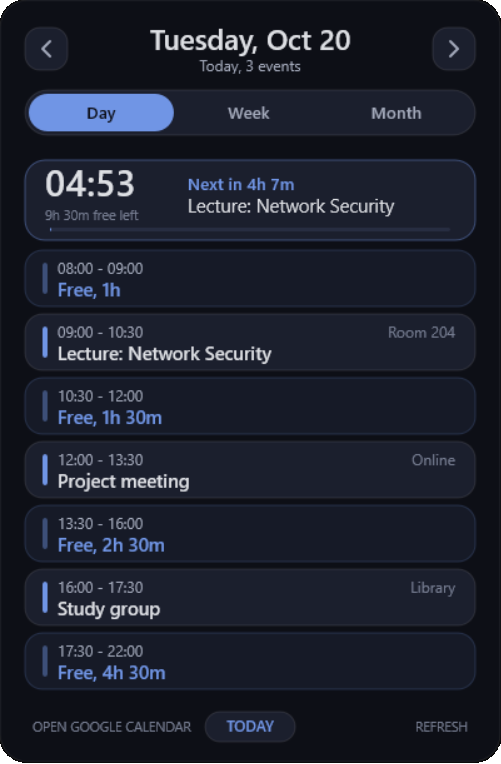
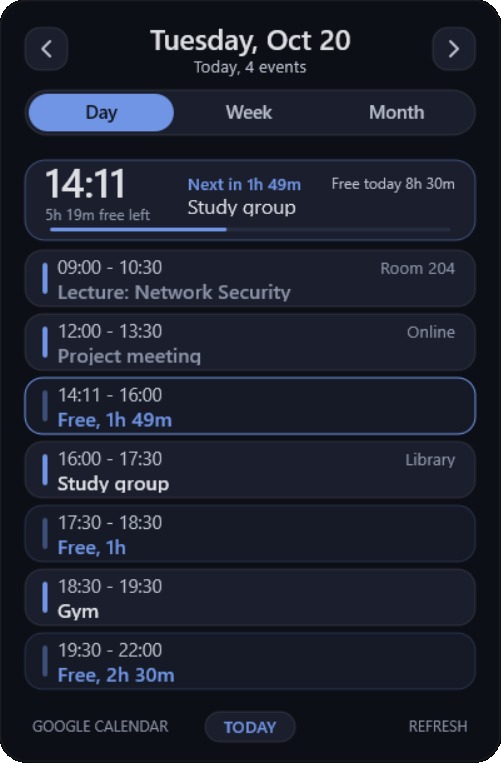
docs: redesign README (hero, badges, usage and config tables), refresh screenshots

diff --git a/README.md b/README.md
@@ -1,225 +1,126 @@
-# CyberCalendar - Rainmeter Skin
+<div align="center">
 
-> Fork of [Gourav2000/CyberCalender](https://github.com/Gourav2000/CyberCalender). See [CHANGELOG.md](CHANGELOG.md) for everything changed in this fork.
+# CyberCalendar
 
-A sleek, dark-themed calendar skin for Rainmeter that integrates with Google Calendar to display your events directly on your desktop.
+**A dark, rounded Google Calendar skin for [Rainmeter](https://www.rainmeter.net/) with Day, Week and Month views, a live "now" card and a free-time timeline.**
 
-## Screenshots
+![Rainmeter](https://img.shields.io/badge/Rainmeter-4.5%2B-1f6feb?style=flat-square)
+![Platform](https://img.shields.io/badge/Windows-10%20%7C%2011-0078d4?style=flat-square&logo=windows&logoColor=white)
+![Lua](https://img.shields.io/badge/Lua-5.1-2c2d72?style=flat-square&logo=lua&logoColor=white)
+![Google Calendar](https://img.shields.io/badge/Google%20Calendar-ICS-4285f4?style=flat-square&logo=googlecalendar&logoColor=white)
+![Fork](https://img.shields.io/badge/fork%20of-Gourav2000%2FCyberCalender-6e7681?style=flat-square&logo=github)
 
-**Before** (original skin by Gourav2000):
+<br>
 
-<img src="Screenshot.png" alt="Original CyberCalendar" width="320">
+<img src="docs/day.png" alt="Day view" width="290">&nbsp;
+<img src="docs/week.png" alt="Week view" width="290">&nbsp;
+<img src="docs/month.png" alt="Month view" width="290">
 
-**After** (this fork; demo data): Day, Week and Month tabs.
+<sub>Day · Week · Month (screenshots use demo data)</sub>
 
-<p>
-  <img src="docs/day.png" alt="Day view" width="300">
-  <img src="docs/week.png" alt="Week view" width="300">
-  <img src="docs/month.png" alt="Month view" width="300">
-</p>
-
-## What's new in 6.0
-
-- Tabs **Month / Week / Day**; arrows move by month / 7 days / 1 day.
-- **Week**: 7 day cards with up to 3 events each; click a card to open that day.
-- **Day**: "now" card (clock, time to next event or time left in current one, day progress, free time left) and a timeline of events with **Free** windows between them.
-- Dark blue palette and rounded cards; all colours live in `[Variables]` of `Calendar.ini`.
-- Times are converted from UTC to your time zone (Windows time zone, or `UtcOffsetHours` if set); previously hard-coded IST.
-- Double-click a day in Month to open it in Day.
-
-Settings in `[Variables]`: `WeekStart` (0 = Sunday, 1 = Monday), `DayStart` / `DayEnd` (hours of the window used for free time), `MinGap` (minimum free window, minutes).
-`Calendar.ini` is long because every meter is spelled out; the old version is kept as `Calendar.ini.bak` / `Calendar.lua.bak`.
-
-## Features (v5 description, still mostly valid)
-
-### 📅 Calendar Grid
-- Full month view with 6 weeks × 7 days layout
-- Blue dates for current month, grey dates for previous/next month
-- Cyan circle highlighting today's date
-- White circle highlighting selected date (with black text)
-- Previous/Next month navigation buttons
-- TODAY button to quickly return to current date
-
-### 🖱 Interactive Date Selection
-- All 42 calendar cells are clickable
-- Grey dates automatically flip the calendar to show the previous/next month
-- Selected date is tracked and displayed throughout the interface
-- Visual feedback with white circles and black text
-
-### 📆 Google Calendar Integration
-- Fetches events from Google Calendar via ICS feed
-- UTC and `TZID` times are converted to your time zone
-- Supports both all-day events and timed events
-- Real-time event filtering based on selected date
-
-### 📋 Event Display
-- **TODAY EVENTS** section displays events for the selected date
-- Header dynamically changes to show selected date (e.g., "2025-10-21 EVENTS")
-- Each event shows the event name and time
-- **UPCOMING EVENTS** section displays future events relative to selection
-- Clean, organized layout with proper spacing
-
-### 🎨 Visual Design
-- Cyber/dark theme with cyan and white accents
-- Color-coded dates (cyan for current month, grey for other months)
-- Dark text on cyan/white circles for optimal readability
-- Smooth animations and hover effects
-- Professional typography and spacing
-
-## Installation
-
-### Prerequisites
-- Rainmeter (latest version)
-- Google Calendar with a valid ICS feed URL
-
-### Setup Steps
-
-1. **Extract Files**
-   - Extract the CyberCalendar folder to your Rainmeter Skins directory:
-     ```
-     C:\Users\[YourUsername]\Documents\Rainmeter\Skins\
-     ```
-
-2. **Configure Google Calendar ICS URLs**
-   - Copy `@Resources\Variables.inc.example` to `@Resources\Variables.inc` (it is gitignored, so your private links are never committed)
-   - Set `GoogleCalendarICS1` (and optionally `GoogleCalendarICS2`) to your feed URLs
-   - To get an ICS URL: Google Calendar > Settings > pick a calendar > Integrate calendar > "Secret address in iCal format"
-
-3. **Load the Skin**
-   - Open Rainmeter
-   - Find "CyberCalendar" in the skins list
-   - Click "Load" to display the calendar
-
-## Usage
-
-### Navigation
-- **Left Arrow (<)**: Go to previous month
-- **Right Arrow (>)**: Go to next month
-- **TODAY Button**: Return to current date and show today's events
-
-### Date Selection
-- **Click any date**: Select that date to view its events
-- **Click grey dates**: Automatically navigates to that month
-- **Selected date**: Shown with a white circle and black text
-
-### Event Display
-- Events for the selected date appear in the "TODAY EVENTS" section
-- The header changes to show the selected date (e.g., "2025-10-21 EVENTS")
-- Each event shows the time and event name
-- All-day events display as "All day"
-
-## File Structure
-
-```
-CyberCalender/
-├── Calendar.ini          # Main skin configuration (meters and styles)
-├── CHANGELOG.md          # What changed compared to upstream
-├── @Resources/
-│   ├── Calendar.lua      # Views, event parsing, free-time logic
-│   ├── Variables.inc     # Your private ICS URLs (gitignored, create from the .example)
-│   └── Parser.lua        # Reference ICS parser (not used)
-└── README.md             # This file
-```
-
-## Technical Details
-
-### Calendar Logic (Lua)
-- **GetDay(index)**: Returns the day number for a calendar cell (0-41)
-- **IsInCurrentMonth(index)**: Checks if a date is in the current month
-- **IsToday(index)**: Checks if a date is today
-- **SetSelectedDate(index)**: Sets the selected date and handles month navigation
-
-### Event Parsing (Lua)
-- **parseIcs()**: Parses RFC 5545 ICS format
-- **filterEvents()**: Filters events by date
-- **parseDt() / toDisplay()**: Convert UTC and `TZID` times to the display time zone
-- **GetParsedResultJson(selectedDate)**: Returns events for a specific date
-
-### Timezone Handling
-- Event times in UTC (`...Z`) and with a known `TZID` (Moscow, Yekaterinburg, Kolkata, etc., see `ZONES` in `Calendar.lua`) are converted to the display time zone
-- Display time zone = Windows time zone, unless `UtcOffsetHours` (for example `5` for Tyumen) is set in `@Resources\Variables.inc`
-- The "now" clock in the Day view uses the same time zone, so it always matches the events
-
-## Customization
-
-### Colors
-Edit the `[Variables]` section in `Calendar.ini`:
-```ini
-ColorWhite=255,255,255,255
-ColorCyan=0,200,255,255
-ColorEvent=100,200,255,200
-```
-
-### Fonts
-```ini
-FontFace=Segoe UI Light
-FontFaceTitle=Segoe UI
-FontFaceDays=Segoe UI
-```
-
-### Calendar Position and Size
-Edit `[MeterBG]` to change the size and position of the calendar window.
-
-## Troubleshooting
-
-### Events not showing?
-1. Verify your Google Calendar ICS URL is correct
-2. Check that your calendar is shared publicly
-3. Make sure the calendar has events for the selected date
-4. Reload the skin: Right-click → Reload
-
-### Dates showing incorrect times?
-1. Compare the Windows time zone with the one in Google Calendar (a wrong Windows time zone shifts every event)
-2. Either fix the Windows time zone, or set `UtcOffsetHours` (for example `5`) in `@Resources\Variables.inc`
-3. Reload the skin
-
-### Calendar not updating?
-1. Increase the UpdateRate in `[MeasureEventParser]` (currently 300 seconds)
-2. Manually refresh: Right-click → Refresh all
-
-## Performance Notes
-
-- Calendar caches parsed events to reduce processing
-- ICS feed is fetched every 300 seconds (configurable)
-- Supports up to 5 upcoming events display
-- Smooth performance even with large calendars
-
-## Future Enhancements
-
-Potential features for future versions:
-- Event details modal on click
-- Multi-calendar support
-- Event color coding by category
-- Weather integration
-- Quick event creation
-- Event notifications
-
-## Known Limitations
-
-- Limited to displaying 5 upcoming events (configurable in code)
-- ICS feed must be publicly accessible
-- No recurring event expansion (RRULE events show only once, on their first date)
-
-## Credits
-
-Built with:
-- **Rainmeter**: Desktop customization platform
-- **Lua**: Scripting language for calendar logic
-- **Google Calendar**: Event data source
-
-## License
-
-Free to use and modify for personal use.
-
-## Support
-
-For issues or suggestions:
-1. Check the troubleshooting section above
-2. Verify all configuration steps are complete
-3. Review the Rainmeter error log for detailed messages
+</div>
 
 ---
 
-**Version**: 1.0
-**Last Updated**: October 2025
-**Tested on**: Rainmeter 4.5+
+## Before and after
+
+This is a fork of [Gourav2000/CyberCalender](https://github.com/Gourav2000/CyberCalender). The original shows one month grid; this fork turns it into a daily planner.
+
+| Original | This fork |
+| :---: | :---: |
+| <img src="Screenshot.png" alt="Original CyberCalendar" width="300"> | <img src="docs/day.png" alt="CyberCalendar Day view" width="300"> |
+
+## Highlights
+
+- **Three views:** Day, Week and Month tabs. Day opens by default.
+- **Day view:**
+  - a "now" card with the current time, the time until the next event (or what is left of the current one), the free time left today, a progress bar of the day and the total free time of the day;
+  - a timeline of events with **free windows** between them, so you can see at a glance when you are actually free;
+  - past events are dimmed, the current one is highlighted, past free time is hidden;
+  - free windows longer than 8 hours are hidden on purpose (that is usually sleep).
+- **Week view:** seven day cards with up to three events each and "+N more". Click a card to open that day.
+- **Month view:** colour-coded event dots per calendar, the selected day's events and the next upcoming events. Double-click a day to open it in Day view.
+- **Adaptive size:** the panel shrinks when there are few events.
+- **Two Google calendars** at once, each with its own accent colour.
+- **Correct time zones:** UTC and `TZID` times are converted to your time zone, and the clock follows the same zone.
+- **Always on top friendly:** the empty area around the panel is click-through, so it works well on a second monitor.
+- **One palette to rule them all:** every colour is a variable, so re-theming takes a minute.
+
+## Installation
+
+1. Install [Rainmeter](https://www.rainmeter.net/).
+2. Put the project folder into your Rainmeter skins directory (usually `Documents\Rainmeter\Skins\`).
+3. Get a private iCal link for each calendar: Google Calendar > Settings > pick a calendar > *Integrate calendar* > **Secret address in iCal format**.
+4. Copy `@Resources\Variables.inc.example` to `@Resources\Variables.inc` and paste your link(s):
+
+   ```ini
+   [Variables]
+   GoogleCalendarICS1=https://calendar.google.com/calendar/ical/.../basic.ics
+   GoogleCalendarICS2=
+   ```
+
+   `Variables.inc` is listed in `.gitignore`, so your private links are never committed.
+5. Open Rainmeter, refresh the skin list and load **CyberCalender > Calendar.ini**.
+
+To keep the calendar above other windows, right-click it and choose *Position > Always on top*.
+
+## Usage
+
+| Action | Result |
+| --- | --- |
+| **Day / Week / Month** tabs | Switch the view |
+| **‹ ›** arrows | Previous / next day, week or month (depending on the view) |
+| Click the title | Month picker (jump to any month) |
+| Click a day in Month | Select it and show its events |
+| Double-click a day in Month | Open it in Day view |
+| Click a day card in Week | Open it in Day view |
+| **TODAY** | Back to today |
+| **REFRESH** | Reload the skin and the calendar data |
+
+## Configuration
+
+Settings live in the `[Variables]` section of `Calendar.ini` (and the optional ones in `@Resources\Variables.inc`).
+
+| Variable | Default | Meaning |
+| --- | --- | --- |
+| `WeekStart` | `1` | `0` = week starts on Sunday, `1` = on Monday |
+| `DayStart` / `DayEnd` | `8` / `22` | Hours of the day used to look for free time |
+| `MinGap` | `30` | Shortest free window to show (minutes) |
+| `MaxFreeGap` | `480` | Longest free window to show (minutes); longer ones are treated as sleep |
+| `UtcOffsetHours` | *(empty)* | Optional, goes in `Variables.inc`. Forces a fixed UTC offset (for example `5` for Tyumen) instead of the Windows time zone |
+| `Color*` | dark blue palette | All colours; `ColorAccent` is the main accent |
+| `FontFace`, `FontFaceTitle` | `Segoe UI`, `Segoe UI Semibold` | Fonts |
+
+### Time zones
+
+Event times with `Z` (UTC) or a known `TZID` (Moscow, Yekaterinburg, Kolkata and a few more, see `ZONES` in `Calendar.lua`) are converted to the display time zone. The display time zone is your Windows time zone unless `UtcOffsetHours` is set. If every event looks shifted by a few hours, compare the Windows time zone with the one in Google Calendar and fix one of them.
+
+## Project structure
+
+```text
+CyberCalender/
+├── Calendar.ini            # Meters and styles (the skin itself)
+├── @Resources/
+│   ├── Calendar.lua        # Views, ICS parsing, free-time logic, layout
+│   ├── Variables.inc       # Your private ICS links (gitignored, create from the .example)
+│   └── Variables.inc.example
+├── docs/                   # Screenshots used in this README
+├── CHANGELOG.md            # Everything that changed in this fork
+└── Screenshot.png          # Screenshot of the original skin
+```
+
+## Known limitations
+
+- Recurring events (`RRULE`) are not expanded: they show only once, on their first date.
+- The Rainmeter window does not shrink together with the panel. The empty area is transparent and click-through, so it is only visible in the window frame.
+- Only a short list of time zones with a fixed offset is understood for `TZID`; an unknown `TZID` is shown as written.
+
+## Troubleshooting
+
+- **No events:** check the links in `Variables.inc`, make sure the file starts with `[Variables]`, then press **REFRESH**.
+- **Times are shifted:** see [Time zones](#time-zones).
+- **Raw text like `[&MeasureCalendarScript:...]` on the panel:** the Lua script failed to load; check the Rainmeter log for the exact error.
+
+## Credits
+
+Original skin: [Gourav2000/CyberCalender](https://github.com/Gourav2000/CyberCalender). This fork adds the Day and Week views, the free-time logic, the new design, time zone handling and the code cleanup. See [CHANGELOG.md](CHANGELOG.md) for details. Licensing follows the original repository.
